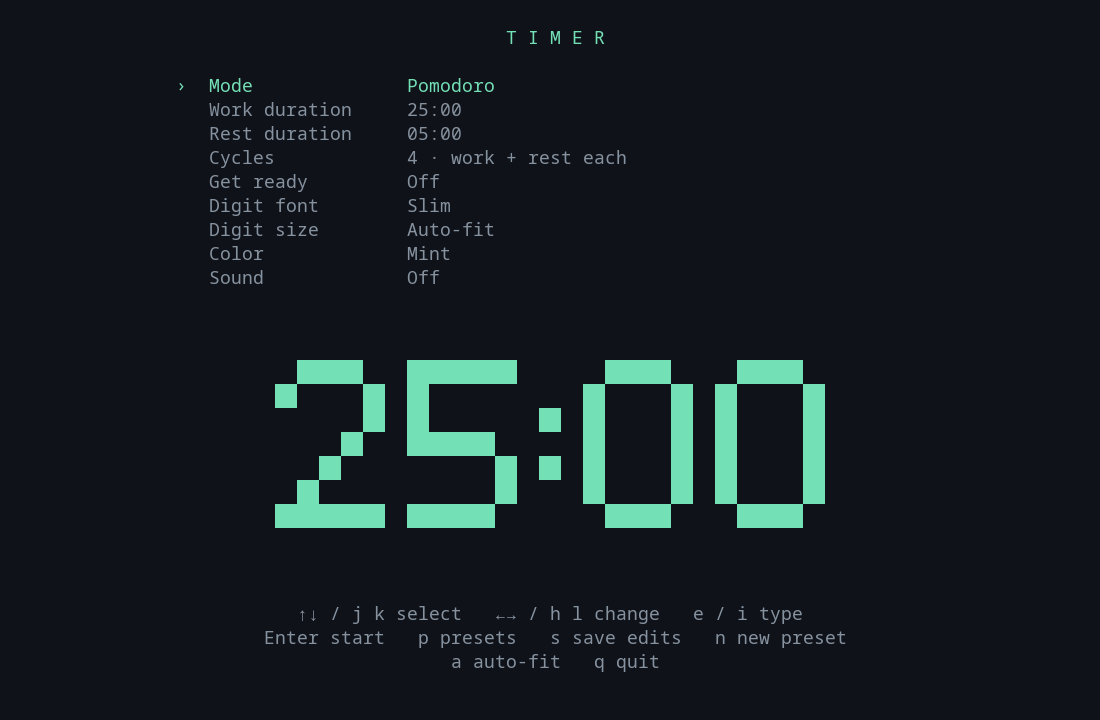
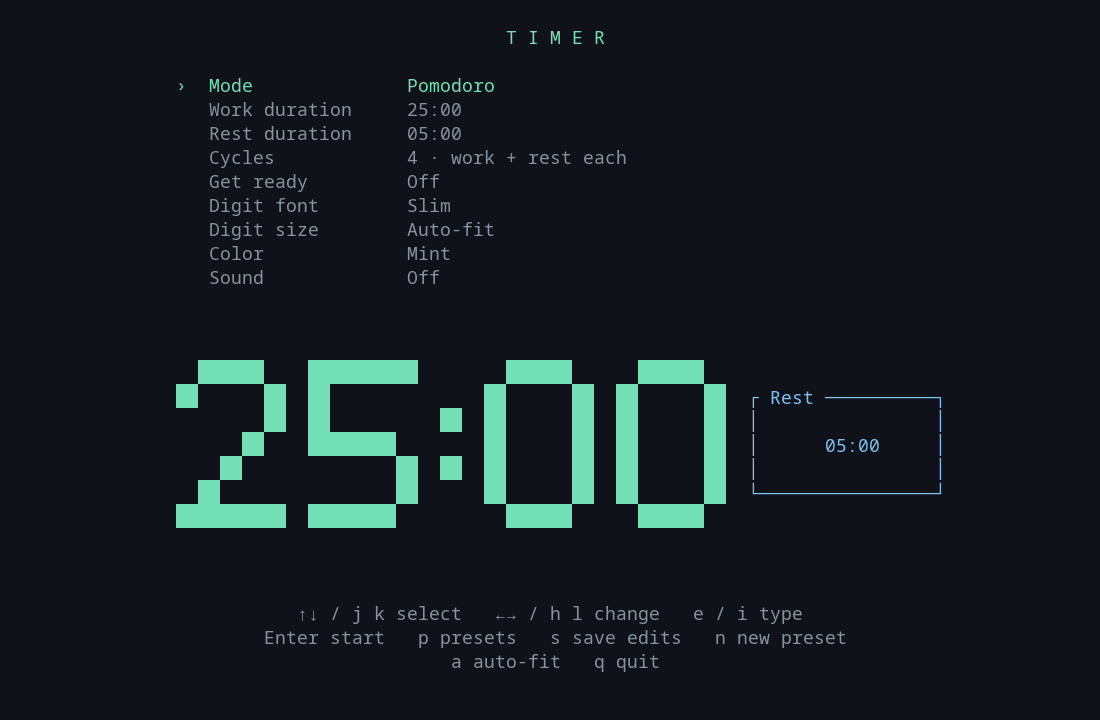
Snap duration adjustments and add stopwatch hundredths and rest preview

Changed region(s): [[0.1545, 0.4889, 0.8036, 0.7333], [0.8345, 0.55, 0.8655, 0.5806]]

diff --git a/src/main.rs b/src/main.rs
@@ -16,6 +16,7 @@ use std::{
 #[serde(default)]
 struct Settings {
     stopwatch: bool,
+    hundredths: bool,
     seconds: u64,
     prep: u64,
     size: u16,
@@ -31,6 +32,7 @@ impl Default for Settings {
     fn default() -> Self {
         Self {
             stopwatch: false,
+            hundredths: true,
             seconds: 120,
             prep: 5,
             size: 0,
@@ -182,6 +184,8 @@ fn valid_name(name: &str) -> bool {
             "font",
             "timer",
             "stopwatch",
+            "hundredths",
+            "no-hundredths",
             "countdown",
             "size",
             "theme",
@@ -214,7 +218,8 @@ fn args(config: &mut Config, argv: &[String]) -> Result<bool, String> {
                     return Err(format!("{a} needs a value"));
                 }
             }
-            "--pomodoro" | "--stopwatch" | "--bell" | "--no-bell" | "--no-countdown" => {}
+            "--pomodoro" | "--stopwatch" | "--bell" | "--no-bell" | "--no-countdown"
+            | "--hundredths" | "--no-hundredths" => {}
             _ if a.starts_with("--") && config.presets.contains_key(&a[2..]) => {
                 preset = Some(a[2..].into())
             }
@@ -238,6 +243,8 @@ fn args(config: &mut Config, argv: &[String]) -> Result<bool, String> {
                 config.settings.stopwatch = false;
                 config.settings.pomodoro = false;
             }
+            "--hundredths" => config.settings.hundredths = true,
+            "--no-hundredths" => config.settings.hundredths = false,
             "--stopwatch" => {
                 config.settings.stopwatch = true;
                 config.settings.pomodoro = false;
@@ -423,6 +430,7 @@ impl Clock {
 #[derive(Clone, Copy, PartialEq)]
 enum Field {
     Mode,
+    Hundredths,
     Duration,
     Rest,
     Cycles,
@@ -476,6 +484,9 @@ impl App {
     }
     fn fields(&self) -> Vec<Field> {
         let mut fields = vec![Field::Mode];
+        if self.config.settings.stopwatch {
+            fields.push(Field::Hundredths);
+        }
         if !self.config.settings.stopwatch {
             fields.push(Field::Duration);
         }
@@ -716,9 +727,9 @@ impl App {
                     let s = &mut self.config.settings;
                     let adjust = |v: u64, step: u64, min: u64, max: u64| {
                         if plus {
-                            (v + step).min(max)
+                            ((v / step + 1) * step).min(max)
                         } else {
-                            v.saturating_sub(step).max(min)
+                            (v.saturating_sub(1) / step * step).max(min)
                         }
                     };
                     match field {
@@ -741,6 +752,7 @@ impl App {
                         Field::Rest => s.rest_seconds = adjust(s.rest_seconds, 60, 1, 359999),
                         Field::Cycles => s.cycles = adjust(s.cycles as u64, 1, 1, 99) as u16,
                         Field::Prep => s.prep = adjust(s.prep, 1, 0, 3600),
+                        Field::Hundredths => s.hundredths = !s.hundredths,
                         Field::Font => s.font = (s.font + if plus { 1 } else { 2 }) % 3,
                         Field::Size => self.zoom(plus),
                         Field::Theme => s.theme = (s.theme + if plus { 1 } else { 3 }) % 4,
@@ -821,7 +833,7 @@ impl App {
     }
 }
 
-const DIGITS: [[&str; 5]; 11] = [
+const DIGITS: [[&str; 5]; 12] = [
     ["111", "101", "101", "101", "111"],
     ["010", "110", "010", "010", "111"],
     ["111", "001", "111", "100", "111"],
@@ -833,7 +845,16 @@ const DIGITS: [[&str; 5]; 11] = [
     ["111", "101", "111", "101", "111"],
     ["111", "101", "111", "001", "111"],
     ["0", "1", "0", "1", "0"],
+    ["0", "0", "0", "0", "1"],
 ];
+fn display_stopwatch(elapsed: Duration, hundredths: bool) -> String {
+    let whole = display_time(elapsed.as_secs());
+    if hundredths {
+        format!("{whole}.{:02}", elapsed.subsec_millis() / 10)
+    } else {
+        whole
+    }
+}
 fn display_time(seconds: u64) -> String {
     if seconds >= 3600 {
         format!(
@@ -846,7 +867,7 @@ fn display_time(seconds: u64) -> String {
         format!("{:02}:{:02}", seconds / 60, seconds % 60)
     }
 }
-const SLIM: [[&str; 7]; 11] = [
+const SLIM: [[&str; 7]; 12] = [
     [
         "01110", "10001", "10001", "10001", "10001", "10001", "01110",
     ],
@@ -878,12 +899,13 @@ const SLIM: [[&str; 7]; 11] = [
         "01110", "10001", "10001", "01111", "00001", "00001", "01110",
     ],
     ["0", "0", "1", "0", "1", "0", "0"],
+    ["0", "0", "0", "0", "0", "0", "1"],
 ];
 fn digit_fit(area: Rect, text: &str, font: usize) -> u16 {
     let units: u16 = text
         .chars()
         .map(|c| {
-            if c == ':' {
+            if c == ':' || c == '.' {
                 1
             } else if font == 1 {
                 5
@@ -931,7 +953,10 @@ fn big_digits(
         let line = text
             .chars()
             .map(|c| {
-                let index = c.to_digit(10).map(|n| n as usize).unwrap_or(10);
+                let index =
+                    c.to_digit(10)
+                        .map(|n| n as usize)
+                        .unwrap_or(if c == '.' { 11 } else { 10 });
                 let pattern = if font == 1 {
                     SLIM[index][row]
                 } else {
@@ -1028,7 +1053,11 @@ fn ui(f: &mut Frame, app: &mut App) {
         return;
     }
     if app.clock.phase == Phase::Setup {
-        let panel = centered(area, 72, area.height.saturating_sub(2));
+        let panel = centered(
+            area,
+            if s.stopwatch && s.hundredths { 88 } else { 72 },
+            area.height.saturating_sub(2),
+        );
         let fields = app.fields();
         let rows = Layout::vertical([
             Constraint::Length(2),
@@ -1076,6 +1105,14 @@ fn ui(f: &mut Frame, app: &mut App) {
                             format!("{}s before starting", s.prep)
                         },
                     ),
+                    Field::Hundredths => (
+                        "Hundredths",
+                        if s.hundredths {
+                            "On · 00:00.00".into()
+                        } else {
+                            "Off · 00:00".into()
+                        },
+                    ),
                     Field::Font => ("Digit font", ["Block", "Slim", "Dots"][s.font].into()),
                     Field::Size => (
                         "Digit size",
@@ -1108,11 +1145,27 @@ fn ui(f: &mut Frame, app: &mut App) {
             .collect::<Vec<_>>();
         f.render_widget(Paragraph::new(lines), rows[1]);
         let preview = if s.stopwatch {
-            "00:00".into()
+            display_stopwatch(Duration::ZERO, s.hundredths)
         } else {
             display_time(s.duration())
         };
-        let (scale, fit) = big_digits(f, rows[2], &preview, s.size, s.font, accent);
+        let preview_area = if s.pomodoro {
+            let columns =
+                Layout::horizontal([Constraint::Percentage(75), Constraint::Percentage(25)])
+                    .split(rows[2]);
+            let rest_area = centered(columns[1], 18, 5);
+            f.render_widget(
+                Paragraph::new(format!("\n{}", display_time(s.rest_seconds)))
+                    .centered()
+                    .block(Block::default().borders(Borders::ALL).title(" Rest "))
+                    .style(Color::Rgb(125, 194, 245)),
+                rest_area,
+            );
+            columns[0]
+        } else {
+            rows[2]
+        };
+        let (scale, fit) = big_digits(f, preview_area, &preview, s.size, s.font, accent);
         app.rendered_scale = scale;
         app.max_scale = fit;
         f.render_widget(Paragraph::new("↑↓ / j k select   ←→ / h l change   e / i type\nEnter start   p presets   s save edits   n new preset\na auto-fit   q quit").centered().style(muted),rows[3]);
@@ -1138,6 +1191,8 @@ fn ui(f: &mut Frame, app: &mut App) {
         };
         let text = if app.clock.phase == Phase::Prep {
             value.to_string()
+        } else if s.stopwatch {
+            display_stopwatch(elapsed, s.hundredths)
         } else {
             display_time(value)
         };
@@ -1630,6 +1685,112 @@ mod tests {
             assert!(!content.contains("PAUSED"));
             assert!(!content.contains("TIME REMAINING"));
             assert!(content.contains(if font == 2 { "●" } else { "█" }));
+        }
+    }
+    #[test]
+    fn duration_arrows_snap_to_grid_in_both_directions() {
+        let mut app = App::new(Config::default(), PathBuf::new());
+        app.selected = 1;
+        for (initial, right, expected) in [
+            (1, true, 15),
+            (16, true, 30),
+            (16, false, 15),
+            (61, false, 60),
+            (60, true, 75),
+            (15, false, 1),
+            (1, false, 1),
+            (359999, false, 359985),
+        ] {
+            app.config.settings.seconds = initial;
+            app.key(if right { KeyCode::Right } else { KeyCode::Left });
+            assert_eq!(app.config.settings.seconds, expected);
+        }
+        app.config.settings.pomodoro = true;
+        for field in [1, 2] {
+            app.selected = field;
+            app.config.settings.work_seconds = 1;
+            app.config.settings.rest_seconds = 1;
+            app.key(KeyCode::Char('l'));
+            assert_eq!(
+                if field == 1 {
+                    app.config.settings.work_seconds
+                } else {
+                    app.config.settings.rest_seconds
+                },
+                60
+            );
+            app.key(KeyCode::Char('l'));
+            assert_eq!(
+                if field == 1 {
+                    app.config.settings.work_seconds
+                } else {
+                    app.config.settings.rest_seconds
+                },
+                120
+            );
+            app.key(KeyCode::Char('h'));
+            assert_eq!(
+                if field == 1 {
+                    app.config.settings.work_seconds
+                } else {
+                    app.config.settings.rest_seconds
+                },
+                60
+            );
+        }
+    }
+    #[test]
+    fn stopwatch_hundredths_format_and_toggle() {
+        for (ms, expected) in [
+            (0, "00:00.00"),
+            (9, "00:00.00"),
+            (10, "00:00.01"),
+            (999, "00:00.99"),
+            (1000, "00:01.00"),
+            (61239, "01:01.23"),
+            (3600000, "01:00:00.00"),
+        ] {
+            assert_eq!(display_stopwatch(Duration::from_millis(ms), true), expected);
+        }
+        assert_eq!(
+            display_stopwatch(Duration::from_millis(61239), false),
+            "01:01"
+        );
+        let mut app = App::new(Config::default(), PathBuf::new());
+        args(
+            &mut app.config,
+            &["--stopwatch".into(), "--no-hundredths".into()],
+        )
+        .unwrap();
+        assert!(!app.config.settings.hundredths);
+        app.selected = 1;
+        app.key(KeyCode::Right);
+        assert!(app.config.settings.hundredths);
+        assert_eq!(DIGITS[11], ["0", "0", "0", "0", "1"]);
+    }
+    #[test]
+    fn rest_preview_and_hundredths_fit_at_normal_terminal_sizes() {
+        for (width, height) in [(60, 24), (80, 24), (100, 30)] {
+            let mut app = App::new(Config::default(), PathBuf::new());
+            app.config.settings.pomodoro = true;
+            let mut terminal =
+                Terminal::new(ratatui::backend::TestBackend::new(width, height)).unwrap();
+            terminal.draw(|f| ui(f, &mut app)).unwrap();
+            let text = terminal
+                .backend()
+                .buffer()
+                .content
+                .iter()
+                .map(|c| c.symbol())
+                .collect::<String>();
+            assert!(text.contains("┌ Rest "));
+            assert!(text.contains("05:00"));
+            app.config.settings.pomodoro = false;
+            app.config.settings.stopwatch = true;
+            for font in 0..3 {
+                app.config.settings.font = font;
+                terminal.draw(|f| ui(f, &mut app)).unwrap();
+            }
         }
     }
 }

diff --git a/scripts/test_terminal.py b/scripts/test_terminal.py
@@ -161,6 +161,7 @@ with tempfile.TemporaryDirectory() as temp:
     assert terminal.read() == before, 'Paused session display changed'
     terminal.send('\x1b')
     terminal.expect('Work duration')
+    terminal.expect('┌ Rest ')
     terminal.capture('pomodoro-settings')
     terminal.send('jjje3\r')
     terminal.send('s')
@@ -178,9 +179,24 @@ with tempfile.TemporaryDirectory() as temp:
     terminal.expect('Space pause')
     terminal.send(' ')
     terminal.expect('Space to resume')
+    frozen = terminal.read()
+    terminal.read(.2)
+    assert terminal.read() == frozen
     terminal.capture('dots')
     terminal.send('\x1b')
     terminal.expect('Stopwatch')
+    terminal.expect('On · 00:00.00')
+    terminal.send('jl')
+    terminal.expect('Off · 00:00')
+    terminal.send('\r')
+    terminal.expect('Space pause')
+    terminal.close()
+    assert tomllib.loads(config.read_text())['settings']['hundredths'] is False
+
+    terminal = Terminal(config, '--stopwatch', '--hundredths', '--font', 'block', '--no-countdown')
+    terminal.expect('Space pause')
+    terminal.read(.2)
+    terminal.capture('stopwatch')
     terminal.close()
 
     timings = []

diff --git a/README.md b/README.md
@@ -56,9 +56,21 @@ Restart starts the entire sequence again, including preparation.
 - **p**: open the preset manager. **s**: save edits to the loaded preset.
 - **n**: save current settings as a new preset.
 
+Arrow adjustments snap timers to the next/previous 15-second mark and Pomodoro
+work/rest periods to the next/previous minute. From the 1-second minimum, Right
+therefore moves to 15 seconds or 1 minute. Typed durations remain exact.
+
 The bottom of setup previews the current time, digit style, size, and accent.
+Pomodoro also shows a compact rest countdown beside the work preview.
 Digit fonts are **Block**, **Slim**, and **Dots**. These are built-in large-digit
 styles; the terminal controls the font used for ordinary interface text.
+
+## Stopwatch precision
+
+Stopwatches show hundredths by default: `00:00.00` (two decimal places). Toggle
+**Hundredths** in setup, or use `--no-hundredths` / `--hundredths`. This preference
+is remembered and saved with presets. Pausing freezes the fractional time too.
+After an hour, the display becomes `01:00:00.00`.
 
 ## Presets
 
@@ -102,6 +114,7 @@ continue to load; omitted new fields get defaults. Fields:
 - `stopwatch`, `pomodoro`: booleans; both false means timer, only one can be true.
 - `seconds`: timer duration; `work_seconds`, `rest_seconds`: Pomodoro durations.
 - `cycles`: 1–99 work/rest pairs.
+- `hundredths`: show stopwatch fractional seconds (defaults to true).
 - `prep`: 0–3600 seconds of get-ready countdown, separate from the timer. Zero is off.
   The one-hour limit applies only to this optional countdown, not to work or rest.
 - `font`: 0 Block, 1 Slim, 2 Dots. `size`: 0 auto-fit or 1–8.
